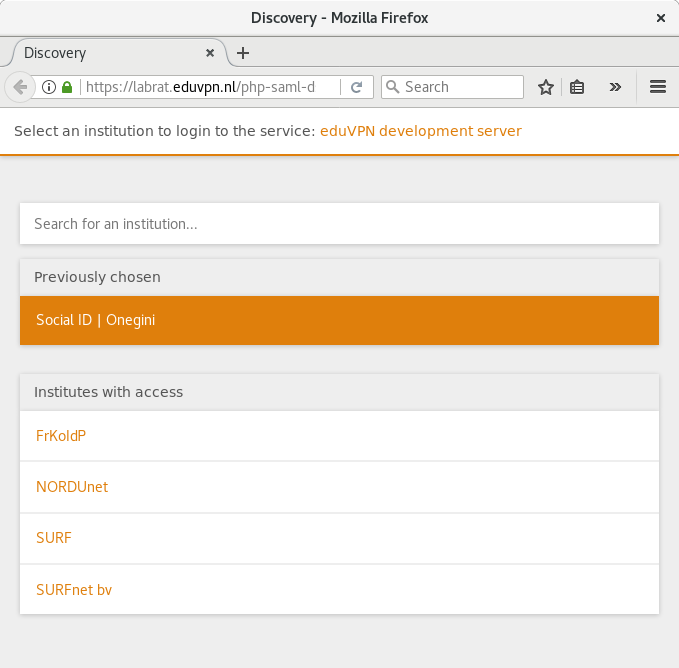
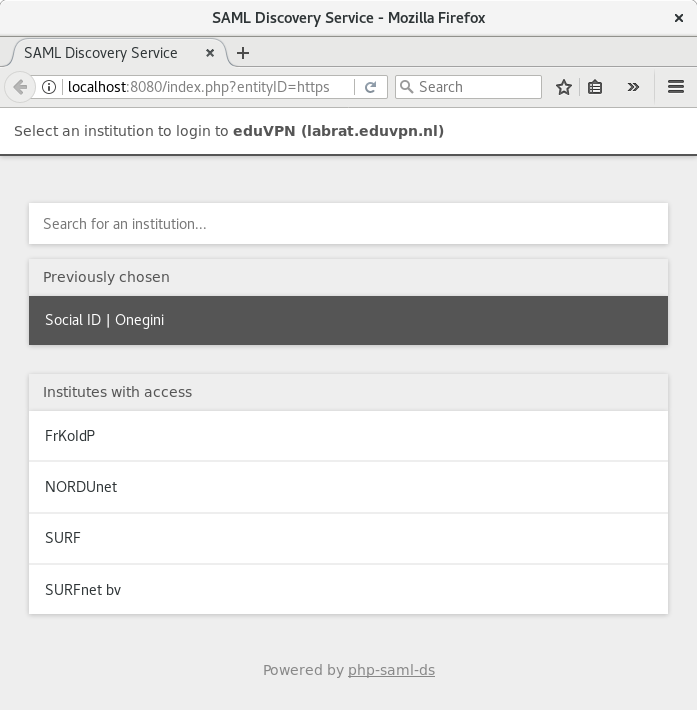
update screenshots

diff --git a/README.md b/README.md
@@ -31,7 +31,8 @@ entire eduGAIN metadata file.
 A service that used the JSON file to display a discovery page where the user
 can select their IdP. Currently it is very bare bones, see the screenshot.
 
-![screenshot](contrib/screenshot.png).
+![screenshot](contrib/screenshot.png)
+![screenshot](contrib/screenshot_logos.png)
 
 # Requirements
 
